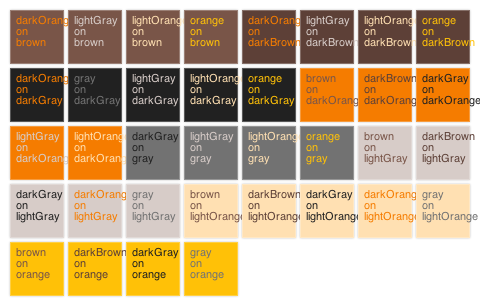
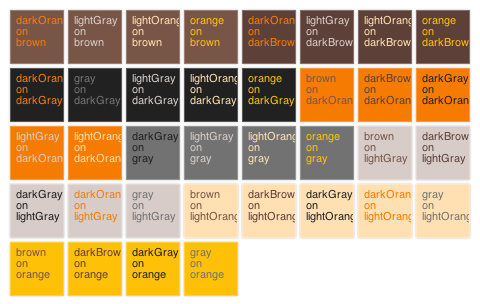
Tweaking palette page

diff --git a/gulpfile.js b/gulpfile.js
@@ -76,11 +76,11 @@ gulp.task('gen-palette-doco', function() {
         var paletteObj = palettes[paletteName];
         var fileName = 'images/palette-' + paletteName + '.png';
 
-        md.push('\n\n##' + paletteName);
+        md.push('\n\n##`' + paletteName + '` palette');
         Object.keys(paletteObj.colors).sort().forEach(function(color) {
-            md.push('\n* ' + color + ' = ' + paletteObj.colors[color]);
+            md.push('\n* ' + color + ': ' + paletteObj.colors[color]);
         });
-        md.push('\n![foreground/background color combinations in the ' + paletteName + ' palette](' + fileName + '?raw=true)');
+        md.push('\n\n![foreground/background color combinations in the ' + paletteName + ' palette](' + fileName + '?raw=true)');
 
         var paletteHtml = generatePaletteHtml(paletteObj);
 

diff --git a/src/colorizer.css b/src/colorizer.css
@@ -9,4 +9,5 @@
     margin: 0.25em;
     border: 1px solid rgba(255, 255, 255, 0.25);
     box-shadow: 0 0 2px rgba(0, 0, 0, 0.25);
+    overflow: hidden;
 }

diff --git a/palettes.md b/palettes.md
@@ -1,70 +1,76 @@
 #Colorizer built-in palettes
 
-##standard
-* black = black
-* blue = blue
-* brown = brown
-* gray = gray
-* green = green
-* orange = orange
-* purple = purple
-* red = red
-* white = white
-* yellow = yellow
+##`standard` palette
+* black: black
+* blue: blue
+* brown: brown
+* gray: gray
+* green: green
+* orange: orange
+* purple: purple
+* red: red
+* white: white
+* yellow: yellow
+
 ![foreground/background color combinations in the standard palette](images/palette-standard.png?raw=true)
 
-##crayons
-* black = #000000
-* blue = #1f75fe
-* brown = #b4674d
-* cyan = #64aff6
-* gray = #95918c
-* green = #1cac78
-* magenta = #f664af
-* orange = #ff7538
-* pink = #ffaacc
-* purple = #926eae
-* red = #ee204d
-* white = #ffffff
-* yellow = #fce883
+##`crayons` palette
+* black: #000000
+* blue: #1f75fe
+* brown: #b4674d
+* cyan: #64aff6
+* gray: #95918c
+* green: #1cac78
+* magenta: #f664af
+* orange: #ff7538
+* pink: #ffaacc
+* purple: #926eae
+* red: #ee204d
+* white: #ffffff
+* yellow: #fce883
+
 ![foreground/background color combinations in the crayons palette](images/palette-crayons.png?raw=true)
 
-##grayscale
-* black = #000
-* dark = #444
-* gray = #888
-* light = #ccc
-* white = #fff
+##`grayscale` palette
+* black: #000
+* dark: #444
+* gray: #888
+* light: #ccc
+* white: #fff
+
 ![foreground/background color combinations in the grayscale palette](images/palette-grayscale.png?raw=true)
 
-##wood
-* brown = #795548
-* darkBrown = #5d4037
-* darkGray = #212121
-* darkOrange = #f57c00
-* gray = #727272
-* lightGray = #d7ccc8
-* lightOrange = #ffe0b2
-* orange = #ffc107
+##`wood` palette
+* brown: #795548
+* darkBrown: #5d4037
+* darkGray: #212121
+* darkOrange: #f57c00
+* gray: #727272
+* lightGray: #d7ccc8
+* lightOrange: #ffe0b2
+* orange: #ffc107
+
 ![foreground/background color combinations in the wood palette](images/palette-wood.png?raw=true)
 
-##sea
-* deepGray = #212121
-* deepSky = #03a9f4
-* gray = #727272
-* lagoon = #00bcd4
-* lightSky = #b3e5fc
-* navy = #303f9f
-* seaGreen = #009688
+##`sea` palette
+* deepGray: #212121
+* deepSky: #03a9f4
+* gray: #727272
+* lagoon: #00bcd4
+* lightSky: #b3e5fc
+* navy: #303f9f
+* seaGreen: #009688
+
 ![foreground/background color combinations in the sea palette](images/palette-sea.png?raw=true)
 
-##circus
-* black = #212121
-* blue = #536dfe
-* darkGray = #727272
-* lightGray = #b6b6b6
-* orange = #fbc02d
-* red = #f44336
-* white = #ffffff
-* yellow = #ffeb3b
+##`circus` palette
+* black: #212121
+* blue: #536dfe
+* darkGray: #727272
+* lightGray: #b6b6b6
+* orange: #fbc02d
+* red: #f44336
+* white: #ffffff
+* yellow: #ffeb3b
+
 ![foreground/background color combinations in the circus palette](images/palette-circus.png?raw=true)
